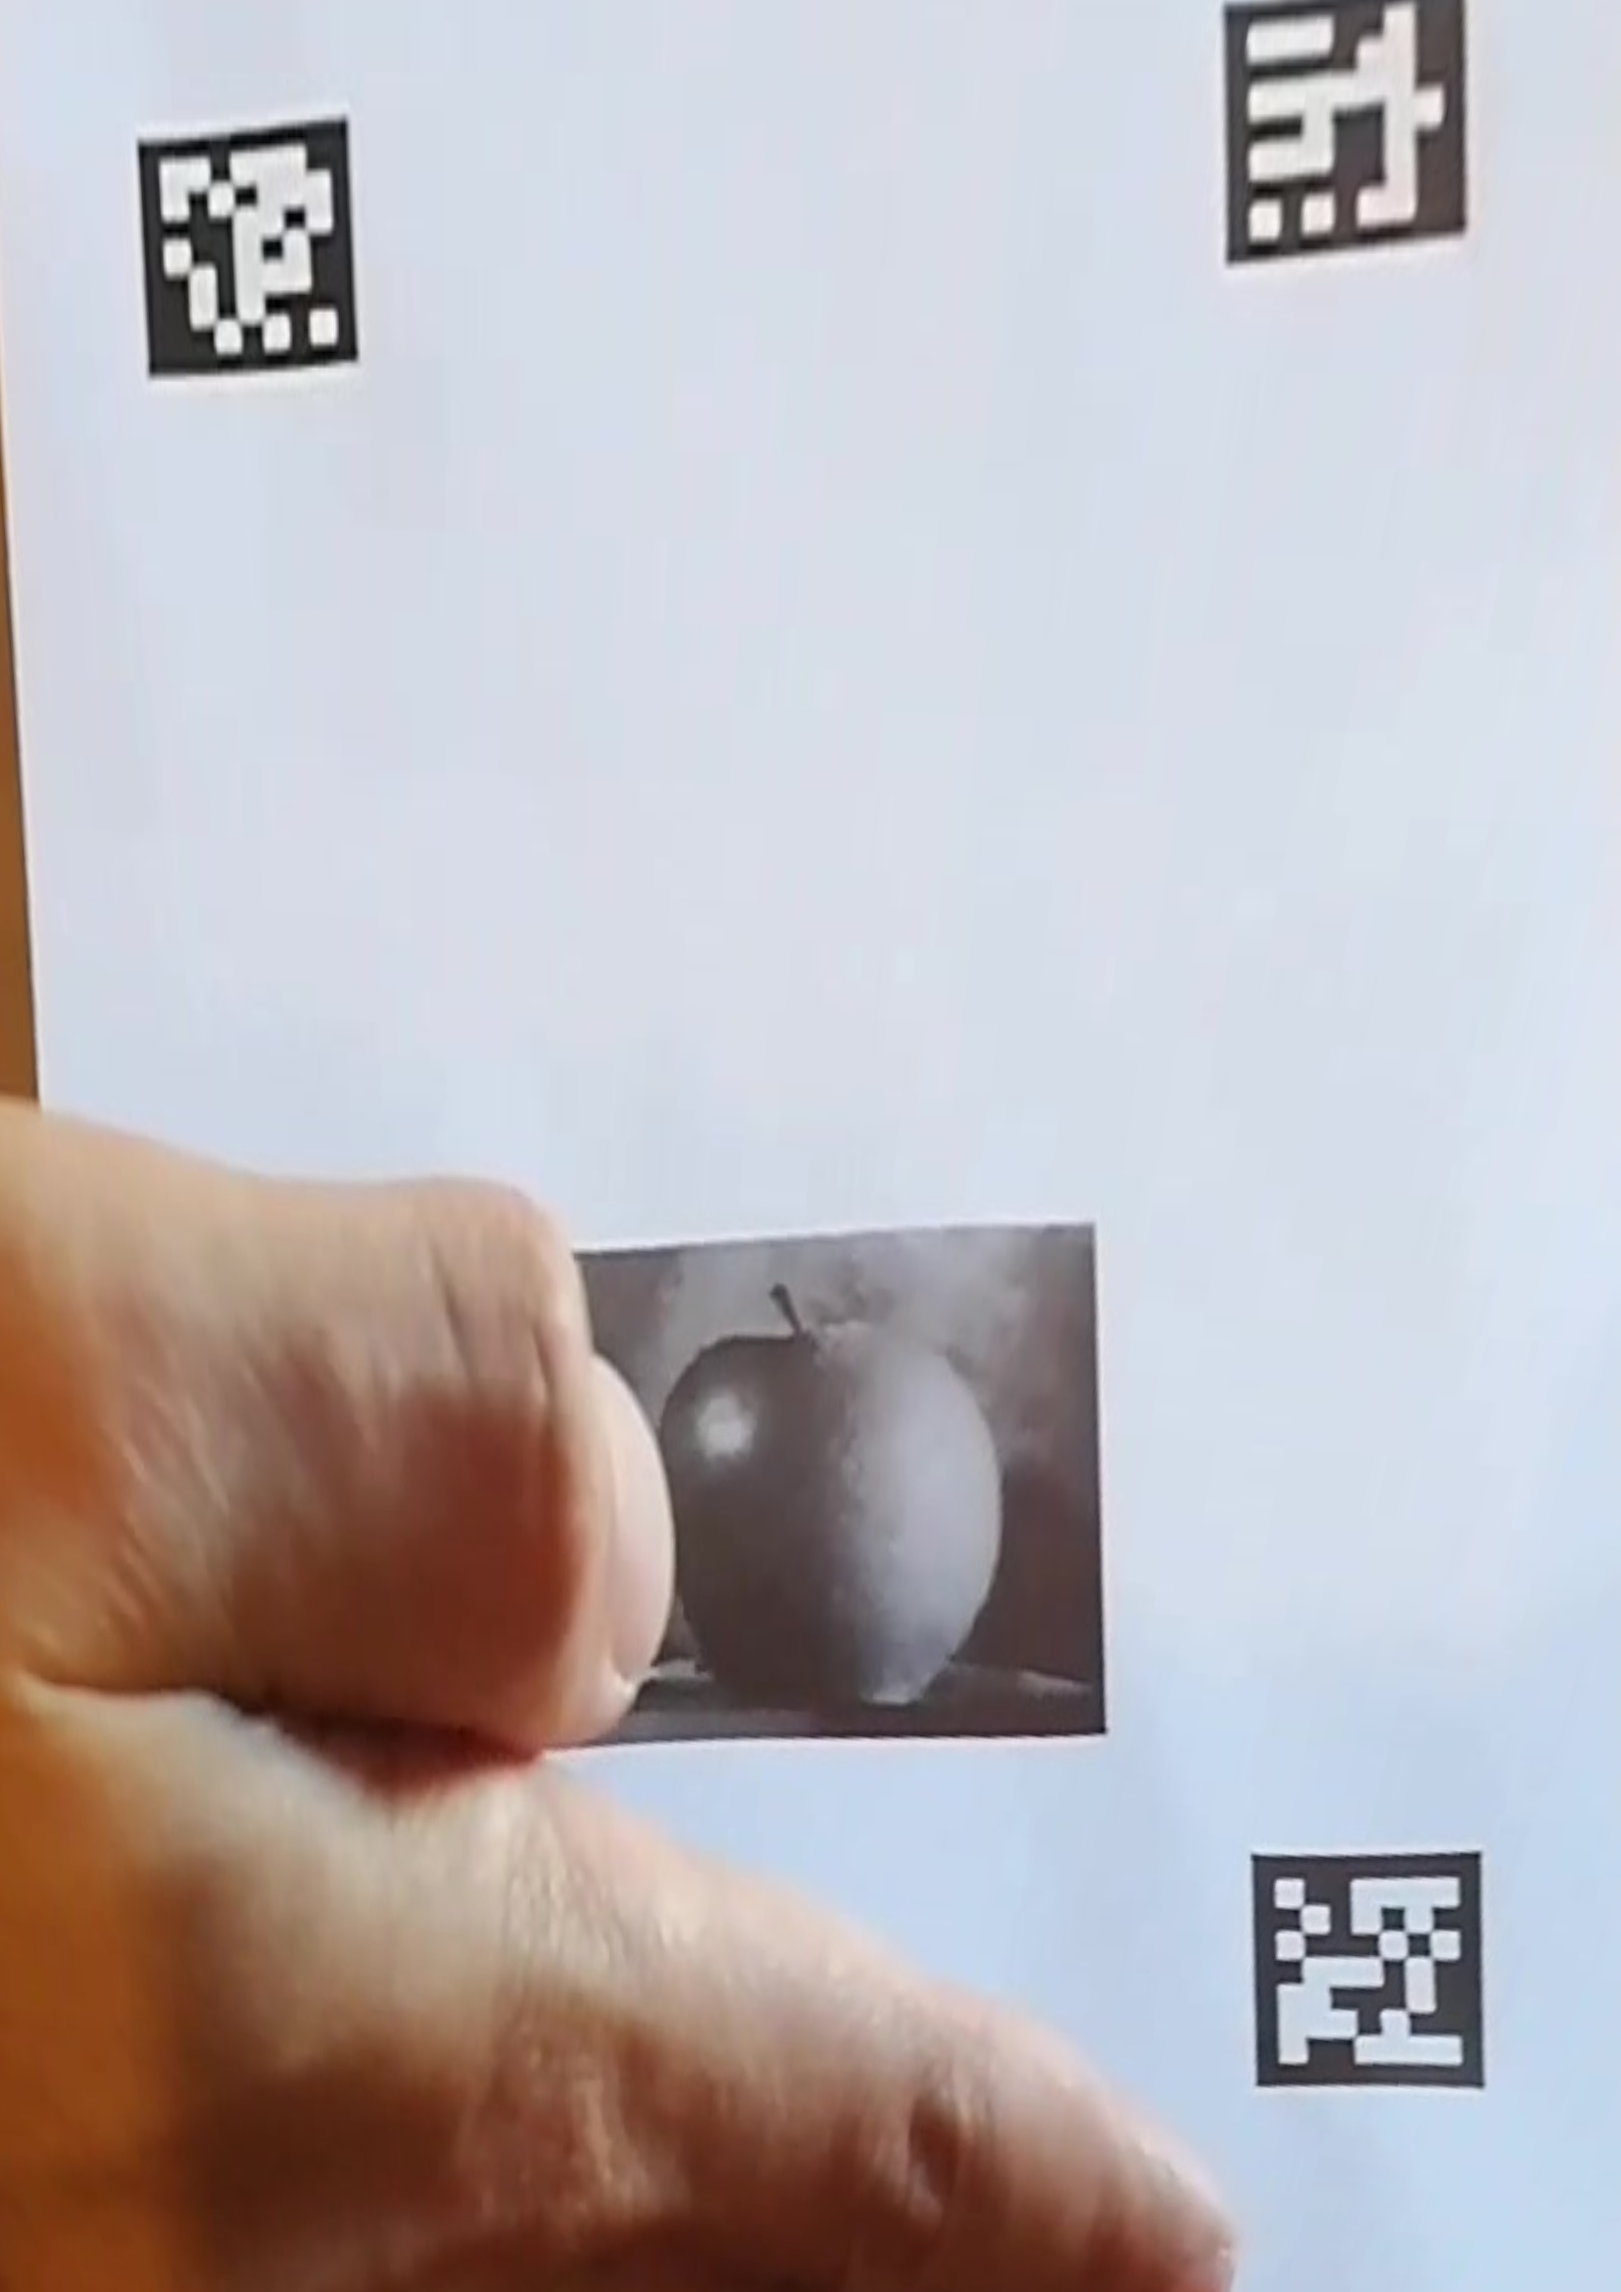
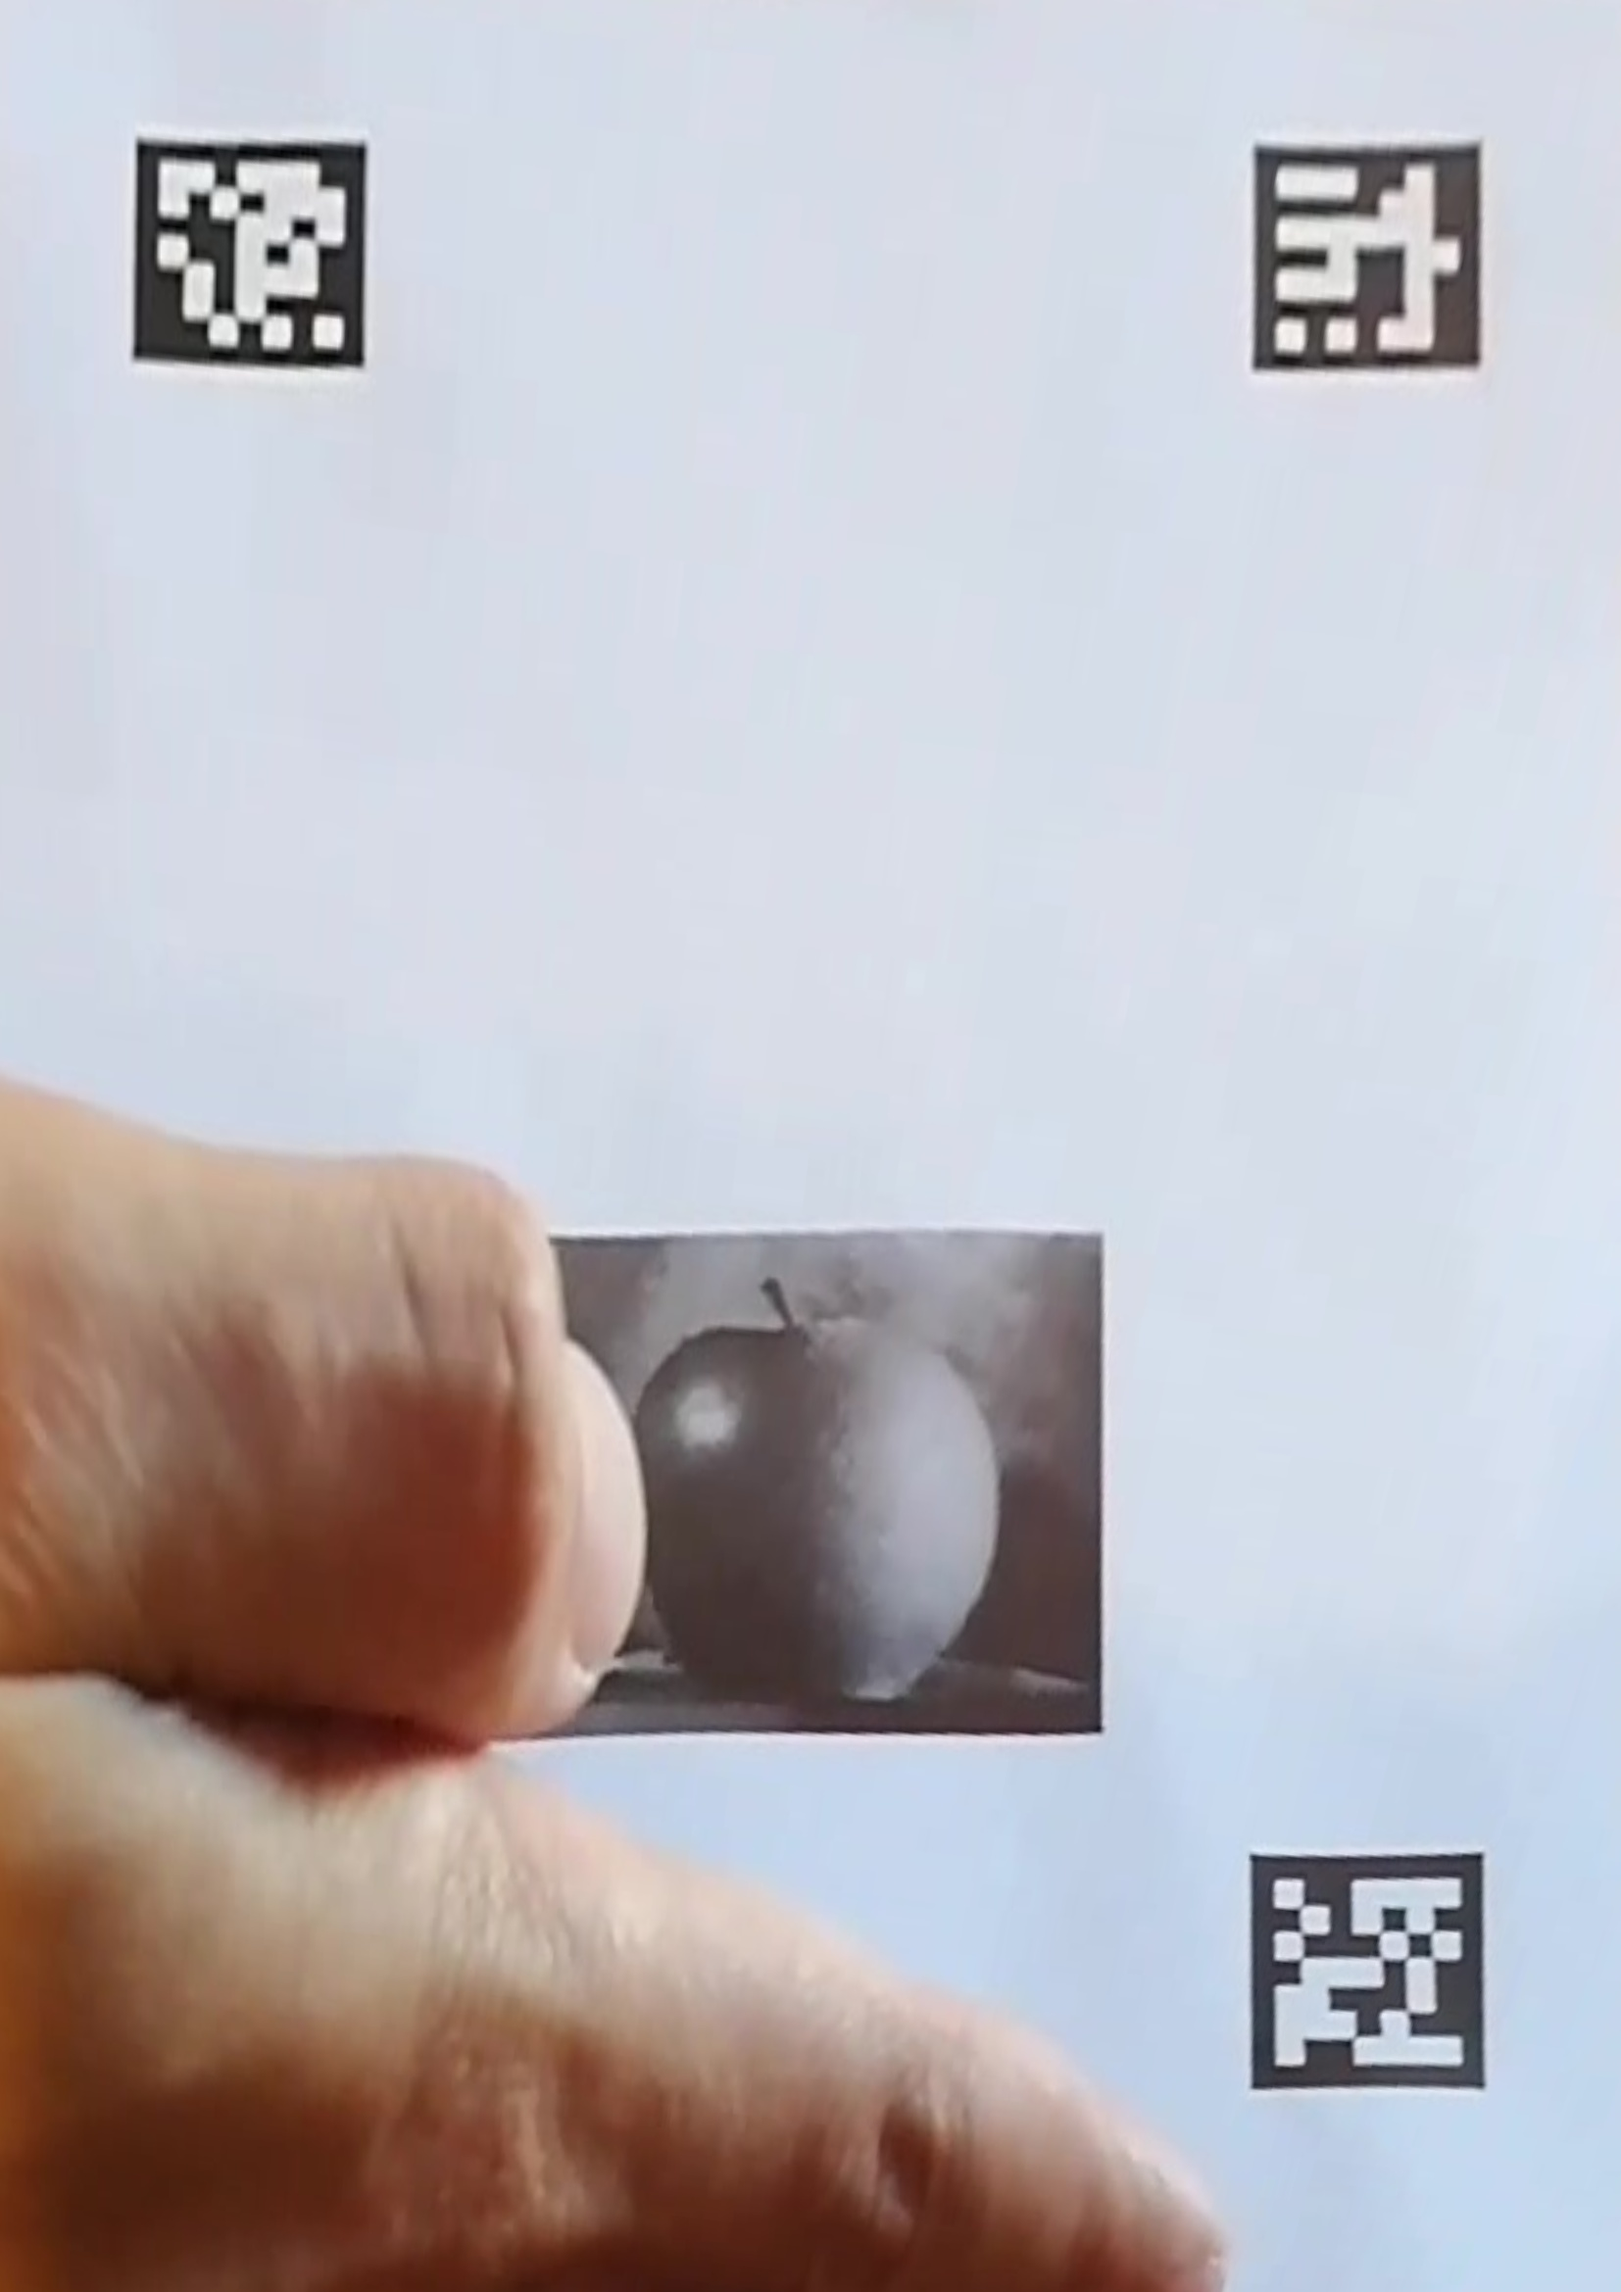
Task 3 draft

diff --git a/paper-tablet/pivproject2021.py b/paper-tablet/pivproject2021.py
@@ -6,11 +6,12 @@ import numpy as np
 from os import listdir, getcwd
 from argparse import ArgumentParser
 from matplotlib import pyplot as plt
+from skimage.metrics import structural_similarity as compare_ssim
 
 
 # # Run the command
 # # $python .\pivproject2021.py 1 "/templates/template1_manyArucos.png" "output_folder" "/dataset_task1" 4
-# # $python .\pivproject2021.py 2 "/templates/template_glass.jpg" "output_folder" "/dataset_task2" 4
+# # $python .\pivproject2021.py 2 "/templates/template2_fewArucos.png" "output_folder" "/dataset_task2" 4
 
 '''
 Command line arguments
@@ -26,9 +27,10 @@ Command line arguments
 
 # args = vars(parser.parse_args())
 
-# For testing
+# For testing, comment out line 21-26
 args = {
-  "task": ""
+  "task": "",
+  "path_to_output_folder" : ""
 }
 args["task"] = "3"
 
@@ -121,7 +123,7 @@ if args["task"] == "2":
         matches       = flann.knnMatch(des1,des2,k=2)
 
         # store all the good matches
-        good = [m for m,n in matches if (m.distance < 0.99*n.distance)]
+        good = [m for m,n in matches if (m.distance < 0.9*n.distance)]
 
         # Extract coordinates of matches found
         src_pts = np.float32([ kp1[m.queryIdx].pt for m in good ]).reshape(-1,1,2)
@@ -132,7 +134,7 @@ if args["task"] == "2":
 
         '''
 
-        M, mask = cv2.findHomography(dst_pts, src_pts, cv2.RANSAC,8.0)
+        M, mask = cv2.findHomography(dst_pts, src_pts, cv2.RANSAC,5.0)
 
         tf_img = cv2.warpPerspective(img2, M, (img1.shape[1], img1.shape[0]))
 
@@ -159,14 +161,70 @@ if args["task"] == "2":
         # img3 = cv2.drawMatches(img1,kp1,img2,kp2,good,None,**draw_params)
         # plt.imshow(img3, 'gray'),plt.show()
 
+'''
+Approach based on ...
 
+'''
 
 if args["task"] == "3":
     
-    img1 = cv2.imread(getcwd() + "dataset_task3_1/rgb_0586.jpg")
-    img2 = cv2.imread(getcwd() + "dataset_task3_2/rgb_0863.jpg")
+    img_temp = cv2.imread(getcwd() + "/templates/template2_fewArucos.png")
+    img1     = cv2.imread(getcwd() + "/dataset_task3_1/rgb_0586.jpg")
+    img2     = cv2.imread(getcwd() + "/dataset_task3_2/rgb_0863.jpg")
+
+    tf_img1 = utils.task2(img_temp, img1)
+    tf_img2 = utils.task2(img_temp, img2)
+
+    '''
+    Converting to gray scale image
+
+    '''
+    img_temp    = cv2.cvtColor(img_temp, cv2.COLOR_BGR2GRAY)
+    gray_img_1  = cv2.cvtColor(tf_img1, cv2.COLOR_BGR2GRAY)
+    gray_img_2  = cv2.cvtColor(tf_img2, cv2.COLOR_BGR2GRAY)
+
+    '''
+    Normalize image
+
+    '''
+    gray_img_1_norm = np.zeros((img_temp.shape[0],img_temp.shape[1]))
+    gray_img_2_norm = np.zeros((img_temp.shape[0],img_temp.shape[1]))
+
+    gray_img_1_norm = cv2.normalize(gray_img_1, gray_img_1_norm, 0, 255, cv2.NORM_MINMAX)
+    gray_img_2_norm = cv2.normalize(gray_img_2, gray_img_2_norm, 0, 255, cv2.NORM_MINMAX)
 
 
+    '''
+    Comparing images
+    
+    '''
+    # # Comparing images using Structural Similarity Index (SSIM)
+    # score_img1, diff_img1 = compare_ssim(img_temp, gray_img_1, full=True)
+    # score_img2, diff_img2 = compare_ssim(img_temp, gray_img_2, full=True)
 
-if args["task"] == "4":
-    pass
+    # print("SSIM: {}".format(score_img1))
+    # print("SSIM: {}".format(score_img2))
+
+    # # Comparing images using Mean Squared Error
+    err1 = np.sum((gray_img_1_norm.astype("float") - img_temp.astype("float")) ** 2)
+    err1 /= float(gray_img_1_norm.shape[0] * gray_img_1_norm.shape[1])
+
+    err2 = np.sum((gray_img_2_norm.astype("float") - img_temp.astype("float")) ** 2)
+    err2 /= float(gray_img_2_norm.shape[0] * gray_img_2_norm.shape[1])
+
+    print(err1)
+    print(err2)
+
+    '''
+    Save images
+
+    '''
+
+    # if err1 < err2:
+    #     to_be_saved = tf_img1
+    # else:
+    #     to_be_saved = tf_img2
+    
+    # # Define image name
+    # path = args["path_to_output_folder"] # = "output_folder3"
+    # cv2.imwrite(os.path.join(path , image_name), to_be_saved)

diff --git a/paper-tablet/utils.py b/paper-tablet/utils.py
@@ -1,5 +1,6 @@
 import numpy as np
 import cv2
+import os
 # Sort corners by id
 # id and courner correspond on index
 def sort_markers(ids, corners):
@@ -29,3 +30,41 @@ def format_detectMarkers_corners(corners):
 
 def save_image(img_name, img, path):
     cv2.imwrite(os.path.join(path , "tf_" + img_name), img)
+
+
+def get_keypoints(img1, img2):
+    
+    sift = cv2.SIFT_create()
+
+    kp1, des1 = sift.detectAndCompute(img1,None)
+    kp2, des2 = sift.detectAndCompute(img2,None)
+
+    return kp1, des1, kp2, des2
+
+def get_matching_pints(kp1, des1, kp2, des2):
+
+    # Match the keypoints between images
+    index_params  = dict(algorithm = 1, trees = 5)
+    search_params = dict(checks = 50)
+    flann         = cv2.FlannBasedMatcher(index_params, search_params)
+    matches       = flann.knnMatch(des1,des2,k=2)
+
+    # store all the good matches
+    good = [m for m,n in matches if (m.distance < 0.99*n.distance)]
+
+    src_pts = np.float32([ kp1[m.queryIdx].pt for m in good ]).reshape(-1,1,2)
+    dst_pts = np.float32([ kp2[m.trainIdx].pt for m in good ]).reshape(-1,1,2)
+
+    return src_pts, dst_pts 
+
+
+def task2(img_temp, img1):
+
+    kp1, des1, kp2, des2 = get_keypoints(img_temp, img1)
+    src_pts, dst_pts     = get_matching_pints(kp1, des1, kp2, des2)
+
+    M, mask = cv2.findHomography(dst_pts, src_pts, cv2.RANSAC,8.0)
+
+    tf_img = cv2.warpPerspective(img1, M, (img_temp.shape[1], img_temp.shape[0]))
+
+    return tf_img
